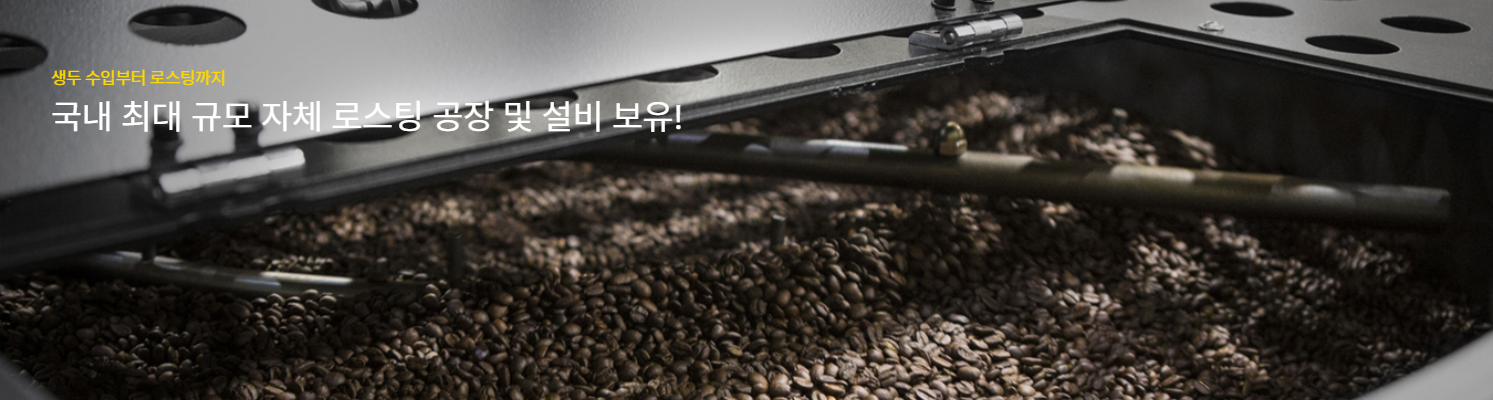
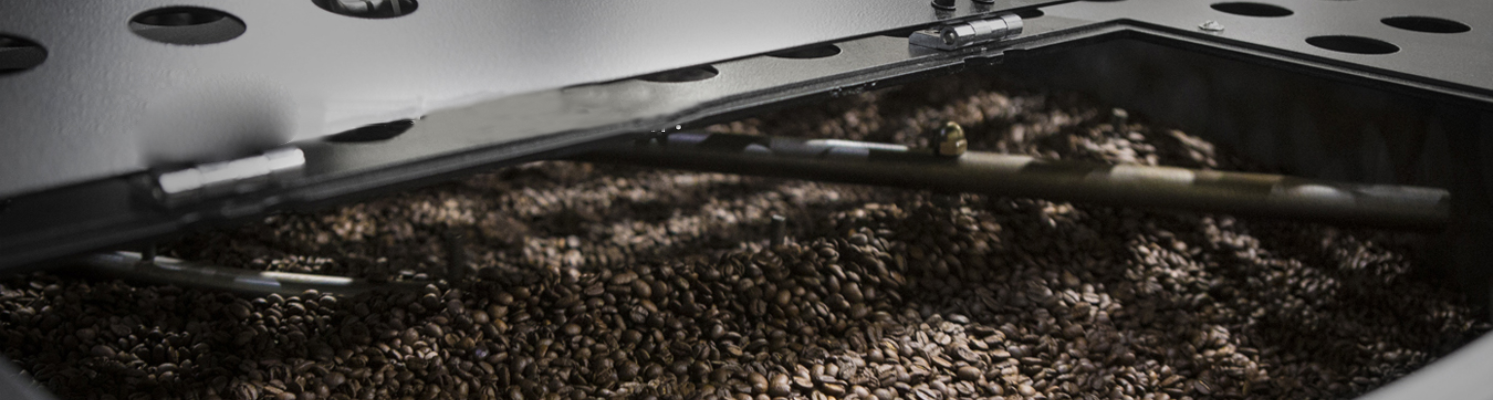
8월 28일 작업1

Changed region(s): [[0.0308, 0.21, 0.493, 0.42], [0.0308, 0.18, 0.1541, 0.21]]

diff --git a/css/index.css b/css/index.css
@@ -220,11 +220,13 @@ video {
 }
 
 /* last */
-.info-box1 {
+.info-box1,
+.info-box2 {
     position: relative;
 }
 
-.info-box1::after {
+.info-box1::after,
+.info-box2::after {
     position: absolute;
     left: 0; top: 0;
     content: '';
@@ -232,6 +234,7 @@ video {
     width: 100%; height: 100%;
 }
 
+/* info-box1 */
 .info-box1 > .pack1 {
     position: absolute;
     top: 50%; left: 50%;
@@ -280,19 +283,52 @@ video {
     color: black;
 }
 
-.info-box1 > .wrapper > .pack2 {
+.info-box1 > img {
+    max-width: 1100px
+}
+
+/* info-li */
+.info-li1 > img {
+    max-width: 800px;
+}
+
+.info-li2 > img,
+.info-li3 > img {
+    max-width: 1100px;
+}
+
+/* info-box2 */
+.info-box2 .pack2 {
     position: absolute;
     top: 50%; left: 50%;
-    transform: translate(-50%, 75%);
+    transform: translate(-50%, 30%);
     z-index: 1;
 }
 
-.info-box1 > img {
-    width: 100%;
-    min-width: 1200px;
-} 
+.info-box2 .pack2 > p {
+    color: white;
+    text-align: center;
+    letter-spacing: -1px;
+}
 
-.info-box2 > img {
-    width: 100%;
-    min-width: 1000px;
+.info-box2 .pack2 > p:first-child {
+    font-size: 26px;
+    margin-bottom: 30px;
+}
+
+.info-box2 .pack2 > hr {
+    border: 1px solid white;
+    width: 50px;
+    margin: 0 auto;
+    margin-bottom: 30px;
+}
+
+.info-box2 .pack2 > .memo-box {
+    display: grid;
+    grid-template-columns: repeat(2, 1fr);
+}
+
+.info-box2 .pack2 > .memo-box > .memo {
+    height: auto;
+    background-color: rgba(255, 255, 255, 0.6);
 }

diff --git a/index.html b/index.html
@@ -128,22 +128,22 @@
                     </div>
                 </li>
                 <li>
-                    <div class="info-box2">
+                    <div class="info-li1">
                         <img src="./img/info2.png" alt="info2">
                     </div>
                 </li>
                 <li>
-                    <div class="info-box2">
+                    <div class="info-li2">
                         <img src="./img/info3.png" alt="info3">
                     </div>
                 </li>
                 <li>
-                    <div class="info-box2">
+                    <div class="info-li3">
                         <img src="./img/info4.png" alt="info4">
                     </div>
                 </li>
                 <li>
-                    <div class="info-box1">
+                    <div class="info-box2">
                         <div class="wrapper">
                             <div class="pack2">
                                 <p>공지사항</p>
